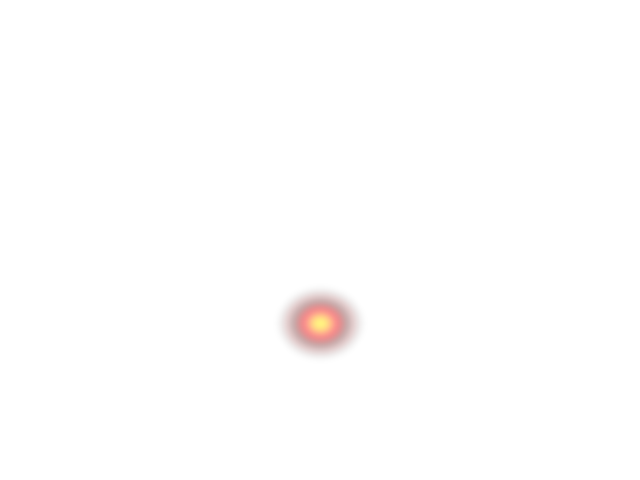
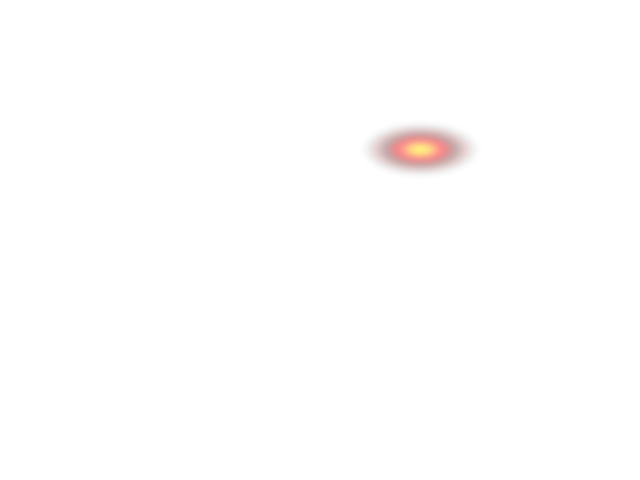
fix: cold solder - surface_anomaly class, correct bbox/heatmap coords

Changed region(s): [[0.5625, 0.25, 0.75, 0.375], [0.4375, 0.5938, 0.5625, 0.75]]

diff --git a/backend/app/services/ai_pipeline.py b/backend/app/services/ai_pipeline.py
@@ -123,14 +123,14 @@ SCENARIO_RESULTS: dict[str, dict] = {
         "findings": [
             {"class": "crack", "approach": "model", "confidence": 0.94, "severity": "critical",
              "desc": "Solder bridge detected on IC U7 — excess solder shorting pins 3 and 4. Short circuit confirmed.",
-             "bbox": {"x": 380, "y": 134, "width": 55, "height": 30}},
+             "bbox": {"x": 405, "y": 130, "width": 28, "height": 28}},
         ],
     },
     "scenario-12": {
         "decision": "FAIL",
         "fusion_rule": "F-02",
         "findings": [
-            {"class": "missing_component", "approach": "model", "confidence": 0.91, "severity": "critical",
+            {"class": "surface_anomaly", "approach": "anomaly", "confidence": 0.91, "severity": "major",
              "desc": "Cold solder joint on C1 electrolytic capacitor negative lead — dull, fractured joint with crystalline structure. Intermittent power failure risk.",
              "bbox": {"x": 374, "y": 226, "width": 40, "height": 30}},
         ],
@@ -183,7 +183,7 @@ KIOSK_RESULTS: dict[str, dict] = {
         "findings": [
             {"class": "crack", "approach": "model", "confidence": 0.94, "severity": "critical",
              "desc": "Solder bridge on IC U7 pins 3-4 — excess solder causing short circuit. Rework required.",
-             "bbox": {"x": 380, "y": 134, "width": 55, "height": 30}},
+             "bbox": {"x": 405, "y": 130, "width": 28, "height": 28}},
         ],
     },
     "444-027654-004": {
@@ -191,7 +191,7 @@ KIOSK_RESULTS: dict[str, dict] = {
         "decision": "FAIL",
         "fusion_rule": "F-02",
         "findings": [
-            {"class": "missing_component", "approach": "model", "confidence": 0.91, "severity": "critical",
+            {"class": "surface_anomaly", "approach": "anomaly", "confidence": 0.91, "severity": "major",
              "desc": "Cold solder joint on C1 capacitor negative lead — dull crystalline joint with fracture crack. Power failure risk.",
              "bbox": {"x": 374, "y": 226, "width": 40, "height": 30}},
         ],

diff --git a/backend/generate_overlays.py b/backend/generate_overlays.py
@@ -22,8 +22,8 @@ SCENARIO_DEFECTS = {
     "scenario-08": {"cx": 370, "cy": 160, "rx": 60, "ry": 50},    # pcb multi
     "scenario-09": {"cx": 335, "cy": 230, "rx": 50, "ry": 35},    # anomaly
     "scenario-10": {"cx": 320, "cy": 240, "rx": 150, "ry": 30},   # scratch
-    "scenario-11": {"cx": 320, "cy": 323, "rx": 30, "ry": 25},    # lifted pad
-    "scenario-12": {"cx": 353, "cy": 182, "rx": 20, "ry": 20},    # tombstone
+    "scenario-11": {"cx": 420, "cy": 149, "rx": 40, "ry": 18},    # solder bridge on IC pins
+    "scenario-12": {"cx": 392, "cy": 240, "rx": 25, "ry": 20},    # cold solder joint (right pad)
 }
 
 # Kiosk defects
@@ -31,8 +31,8 @@ KIOSK_DEFECTS = {
     "839-041322-002": {"cx": 320, "cy": 240, "rx": 150, "ry": 30},
     "715-098456-003": {"cx": 390, "cy": 160, "rx": 30, "ry": 30},
     "444-027654-002": {"cx": 370, "cy": 160, "rx": 60, "ry": 50},
-    "444-027654-003": {"cx": 320, "cy": 323, "rx": 30, "ry": 25},
-    "444-027654-004": {"cx": 353, "cy": 182, "rx": 20, "ry": 20},
+    "444-027654-003": {"cx": 420, "cy": 149, "rx": 40, "ry": 18},
+    "444-027654-004": {"cx": 392, "cy": 240, "rx": 25, "ry": 20},
 }
 
 
